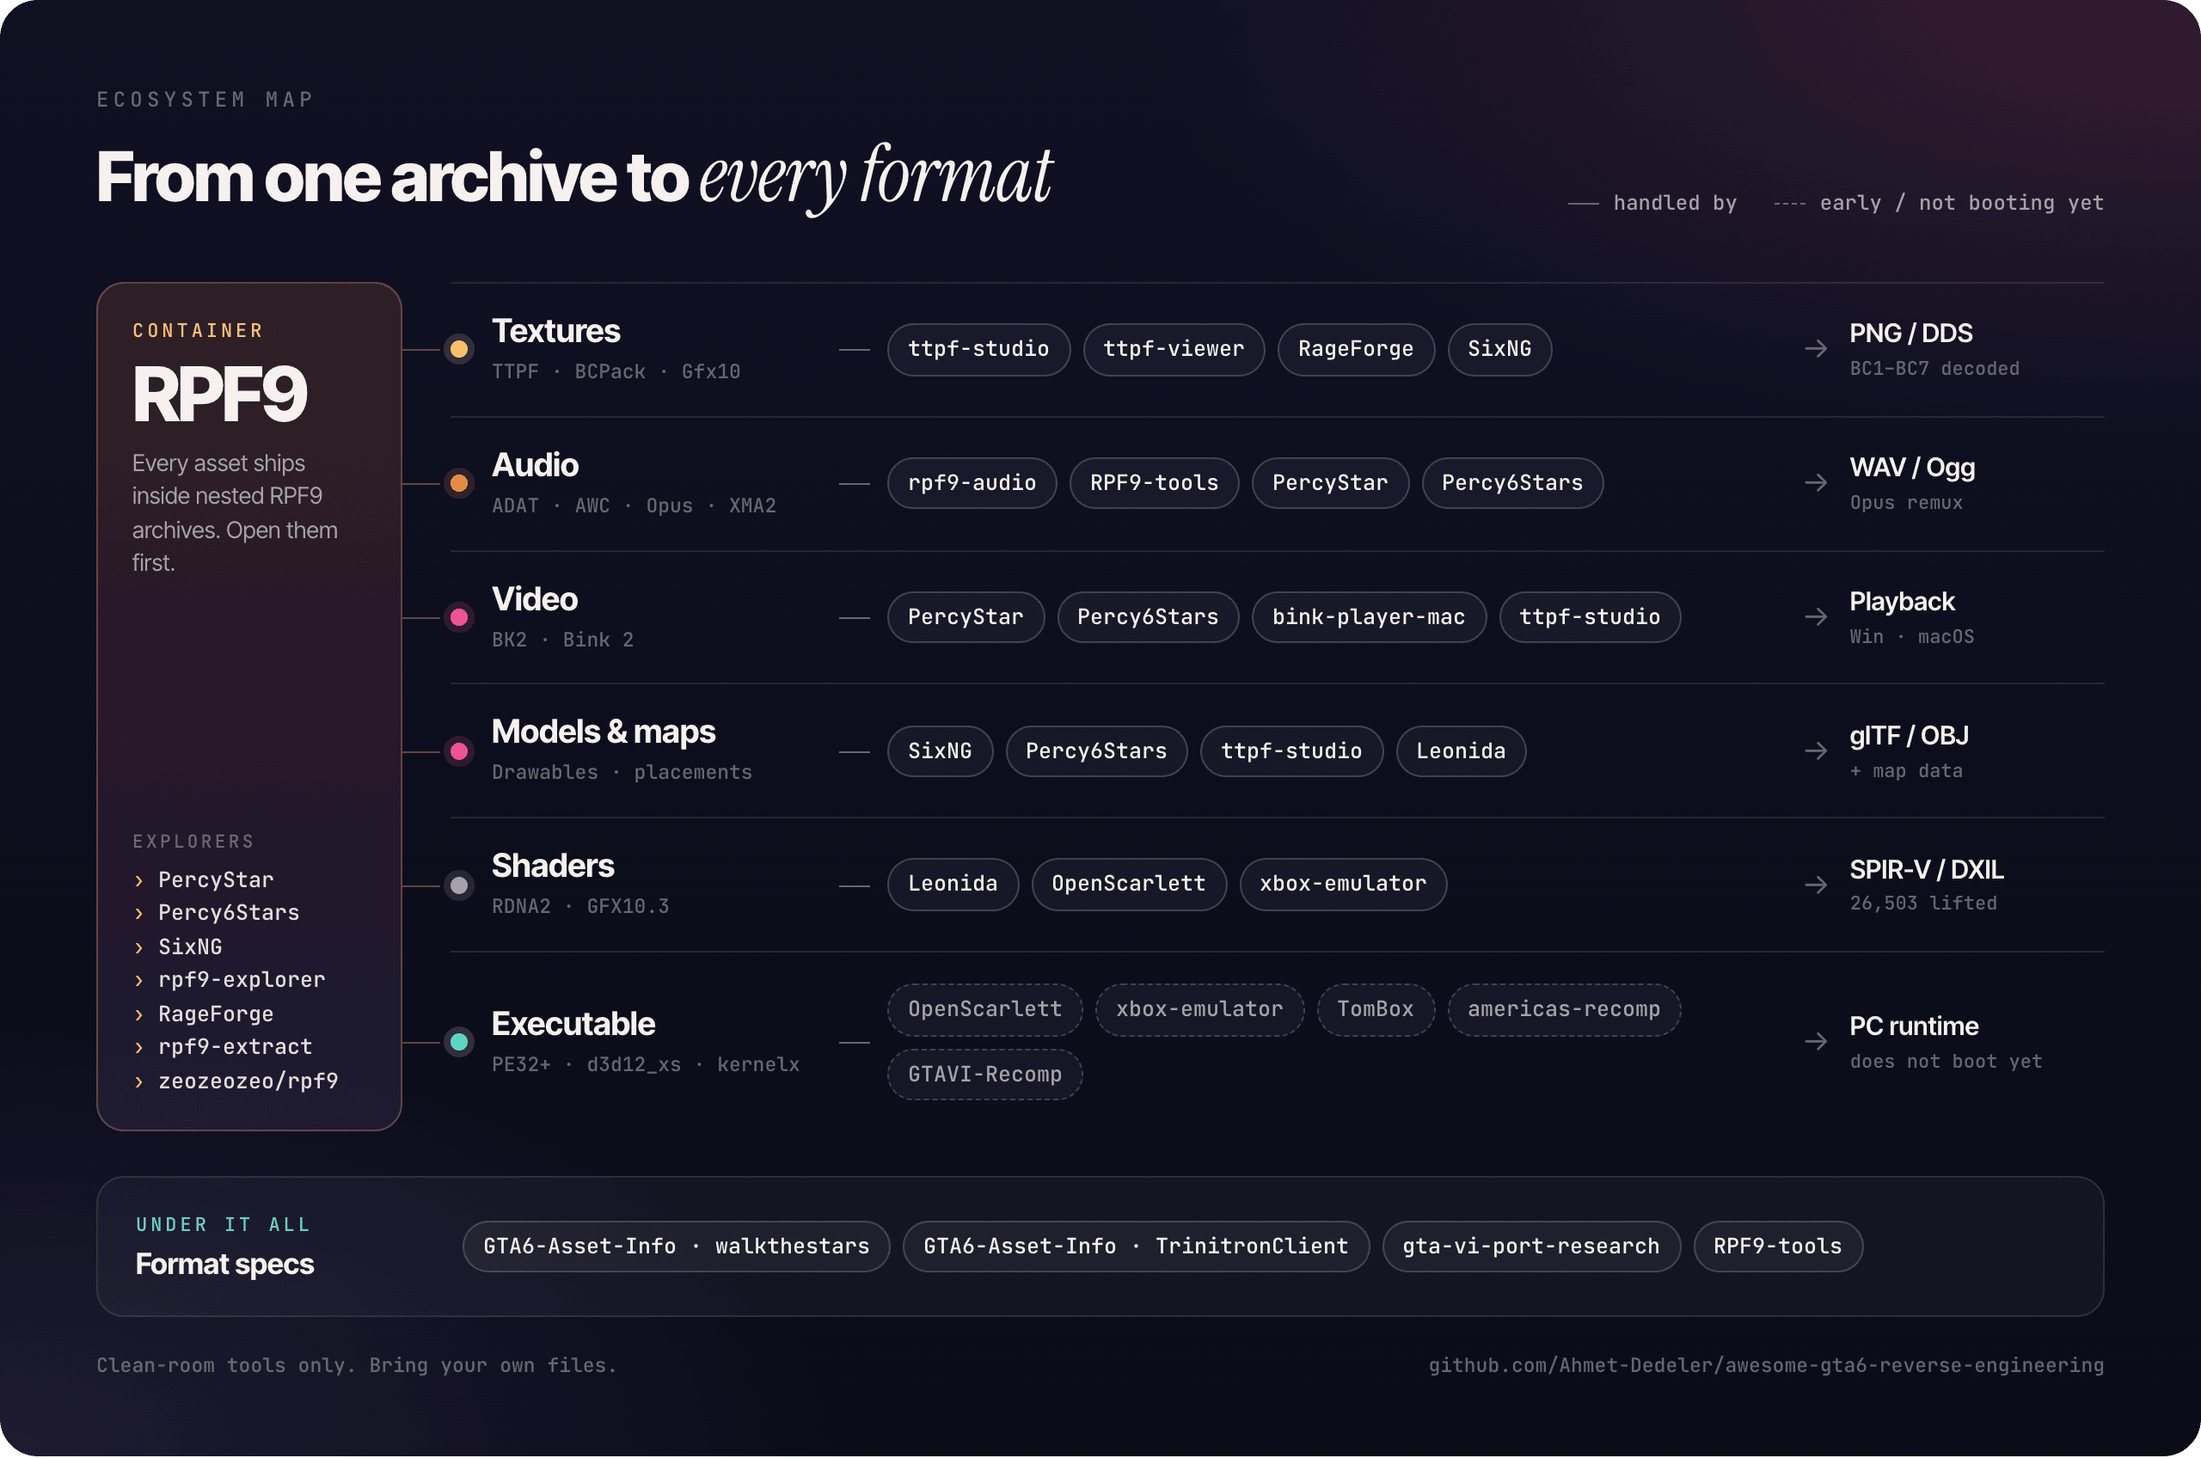
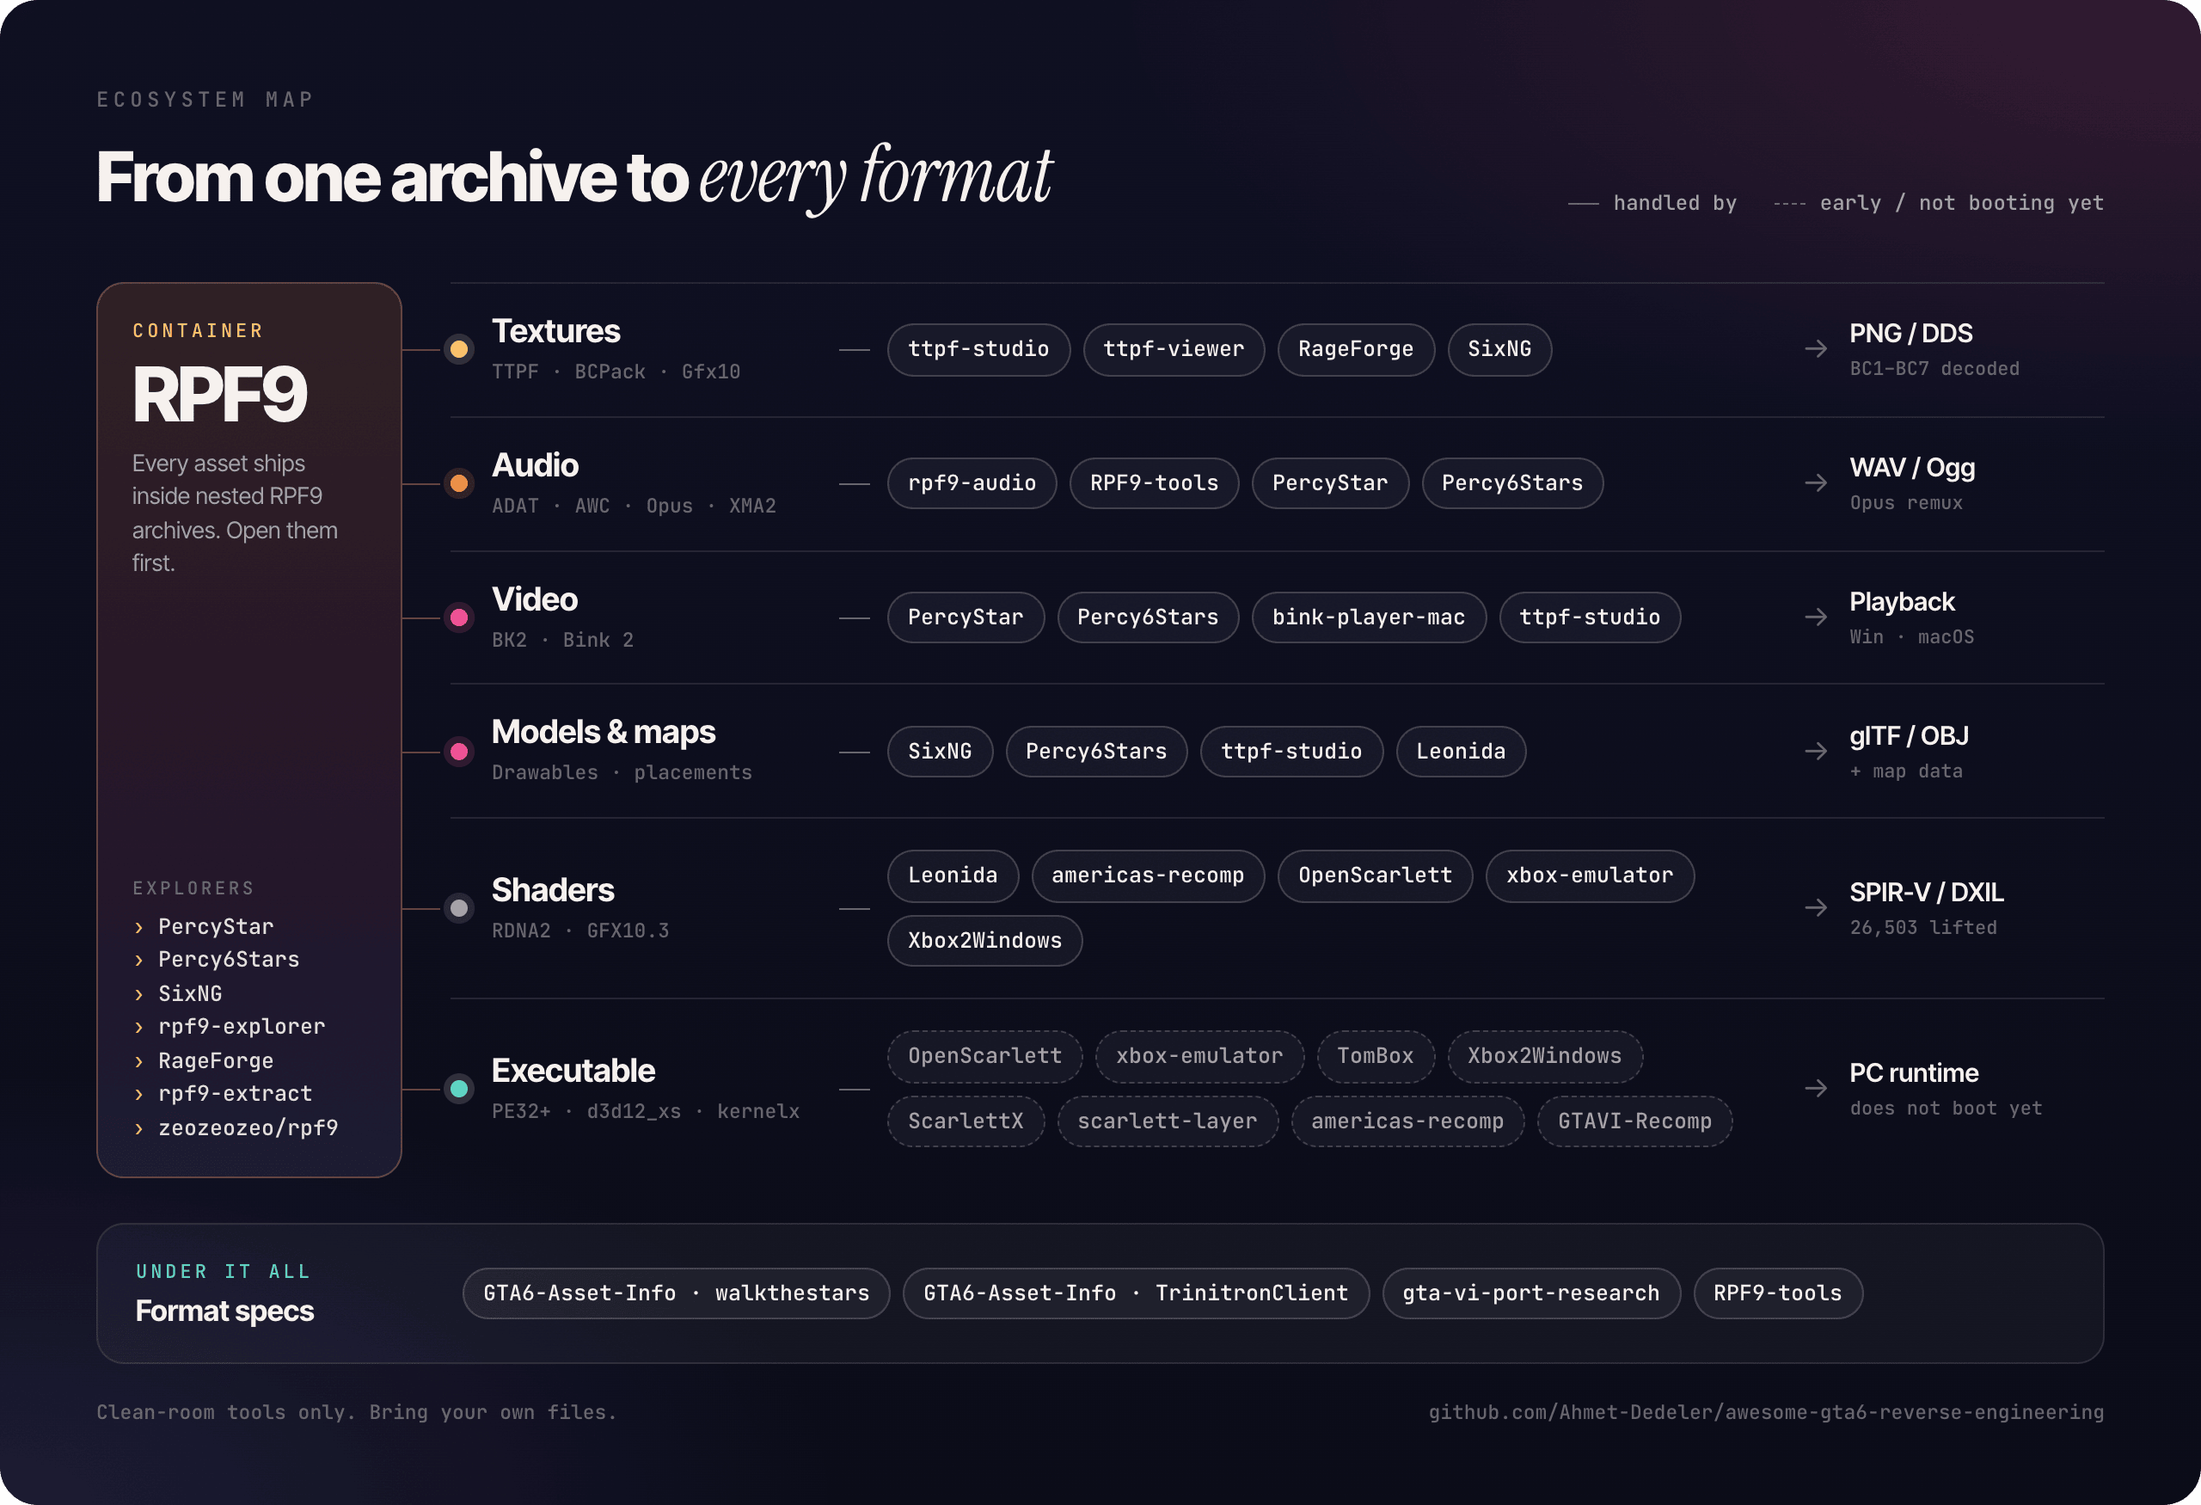
Add Xbox2Windows, ScarlettX, scarlett-layer, AnyPS5; refresh active entries
- New: R0Y00/Xbox2Windows, Freminet/ScarlettX, jadeowaowa/scarlett-layer,
  boykopovar/AnyPS5 (upstream of americas-recomp and GTAVI-Recomp)
- Refresh PercyStar, Percy6Stars, SixNG, RageForge, Leonida, xbox-emulator,
  americas-recomp, OpenScarlett, GTAVI-Recomp and TrinitronClient specs
- Caution callout: no PC exe exists; fake launchers and installers are malware bait
- Exclusions: Switch-emulator repo farms, Rockstar-branded launchers, text dumps,
  cipher-key hunting, README-only repos with releases
- Ecosystem map: new projects in the shader and executable lanes

diff --git a/assets/src/ecosystem-map.html b/assets/src/ecosystem-map.html
@@ -162,13 +162,13 @@
 
     <div class="lane">
       <div class="fmt"><span class="dot" style="color:var(--violet);background:var(--violet)"></span><div><div class="name">Shaders</div><div class="spec">RDNA2 · GFX10.3</div></div></div>
-      <div class="tools"><span class="pill">Leonida</span><span class="pill">OpenScarlett</span><span class="pill">xbox-emulator</span></div>
+      <div class="tools"><span class="pill">Leonida</span><span class="pill">americas-recomp</span><span class="pill">OpenScarlett</span><span class="pill">xbox-emulator</span><span class="pill">Xbox2Windows</span></div>
       <div class="out"><div class="o">SPIR-V / DXIL<small>26,503 lifted</small></div></div>
     </div>
 
     <div class="lane">
       <div class="fmt"><span class="dot" style="color:var(--teal);background:var(--teal)"></span><div><div class="name">Executable</div><div class="spec">PE32+ · d3d12_xs · kernelx</div></div></div>
-      <div class="tools"><span class="pill wip">OpenScarlett</span><span class="pill wip">xbox-emulator</span><span class="pill wip">TomBox</span><span class="pill wip">americas-recomp</span><span class="pill wip">GTAVI-Recomp</span></div>
+      <div class="tools"><span class="pill wip">OpenScarlett</span><span class="pill wip">xbox-emulator</span><span class="pill wip">TomBox</span><span class="pill wip">Xbox2Windows</span><span class="pill wip">ScarlettX</span><span class="pill wip">scarlett-layer</span><span class="pill wip">americas-recomp</span><span class="pill wip">GTAVI-Recomp</span></div>
       <div class="out"><div class="o">PC runtime<small>does not boot yet</small></div></div>
     </div>
   </div>

diff --git a/README.md b/README.md
@@ -31,6 +31,9 @@
 > [!IMPORTANT]
 > **Clean-room research and open-source code only.** This list indexes reverse engineering tools, clean-room reimplementations, and format documentation. It does **not** host, link to, or endorse game executables, copyrighted assets, encryption keys, DRM bypass tools, or leaked build downloads. Every tool listed expects you to supply files from your own copy on disk.
 
+> [!CAUTION]
+> **There is no playable GTA VI for PC.** The circulating Xbox build has no game executable (`game_scarlett_master.exe` is missing), and no open-source project boots the game. Any "GTA 6 PC download", "Switch/PS5 emulator", installer, or prebuilt launcher `.exe` is fake at best and malware at worst. One public "launcher" template even ships a self-signed `CN=Rockstar Games, Inc.` certificate with its private key, so anyone can sign a malicious build with it. Build tools from source you have read.
+
 ---
 
 ## Contents
@@ -63,12 +66,12 @@ Tools and libraries for inspecting, browsing, salvaging, and exporting `RPF9` co
 
 | Project | Stack | Platform | Focus |
 | :--- | :--- | :--- | :--- |
-| [rpatty-dev/PercyStar](https://github.com/rpatty-dev/PercyStar) | Rust | Windows | High-speed RPF9 archive explorer with D3D11 Bink2 video playback and ADAT Opus audio decoding. |
-| [Ahmet-Dedeler/Percy6Stars](https://github.com/Ahmet-Dedeler/Percy6Stars) | Rust | macOS, Windows | Cross-platform fork of PercyStar adding macOS support, in-app BK2 video, AWC audio previews, and 3D model browsing. |
-| [holdmysocks/SixNG](https://github.com/holdmysocks/SixNG) | Rust | Cross-platform (CLI + GUI) | Asset extractor for GTA VI Xbox Series `RPF9` archives. Exports models to `glTF`, textures, and map data (`GPL-3.0`). |
+| [rpatty-dev/PercyStar](https://github.com/rpatty-dev/PercyStar) | Rust | Windows | High-speed RPF9 archive explorer with D3D11 Bink2 video playback and ADAT Opus audio decoding. Now adds a World Map tab (heightmap, NavMesh, textured city blocks), a streaming 3D GPU world view, an animation / PSO browser, and an AWC player. |
+| [Ahmet-Dedeler/Percy6Stars](https://github.com/Ahmet-Dedeler/Percy6Stars) | Rust | macOS, Windows | Cross-platform fork of PercyStar adding macOS support, in-app BK2 video, AWC audio previews with real macOS playback, 3D model browsing, and a thumbnail gallery for `.ttpf` texture packs. Tracks upstream PercyStar features. |
+| [holdmysocks/SixNG](https://github.com/holdmysocks/SixNG) | Rust | Cross-platform (CLI + GUI) | Asset extractor for GTA VI Xbox Series `RPF9` archives. Exports models to `glTF`, textures, and map data, streams the whole map in a 3D view, resolves LOD links and shader/parameter names, and decodes PSO files and vehicle tables (`GPL-3.0`). |
 | [breadbbbb/rpf9-explorer](https://github.com/breadbbbb/rpf9-explorer) | C# | Windows | RPF9 archive browser with model, texture, audio, and video previews, asset export, and saved replacement projects (used as a submodule by `Leonida`). |
 | [offs/rpf9-extract](https://github.com/offs/rpf9-extract) | Rust | Cross-platform (CLI) | Clean-room CLI extractor and inspector (`-n` list, `-v` header fields and PSIN tables). |
-| [nullbrik/RageForge](https://github.com/nullbrik/RageForge) | C# | Windows (GUI + CLI) | RPF9 archive inspector (entry counts, types, verification hashes) paired with a live `.ttpf` texture decoder (Gfx10 detiling + BC1-BC7). |
+| [nullbrik/RageForge](https://github.com/nullbrik/RageForge) | C# | Windows (GUI + CLI) | RPF9 archive inspector (entry counts, types, verification hashes) with a live `.ttpf` texture decoder (Gfx10 detiling + BC1-BC7), texture dictionary detection, and a 3D model viewer with normal maps. |
 | [zeozeozeo/rpf9](https://github.com/zeozeozeo/rpf9) | Rust | Library crate | Minimal clean-room Rust library implementing the `RPF9` archive format with runnable `examples/`. |
 
 ---
@@ -91,12 +94,16 @@ Projects translating Xbox Series X|S (`Scarlett`) or PS5 system libraries, memor
 
 | Project | Stack | Target | Focus & Current Status |
 | :--- | :--- | :--- | :--- |
-| [ItsNotRexed/Leonida](https://github.com/ItsNotRexed/Leonida) | Python, C# | Xbox Series → Windows (Vulkan) | Static recompilation effort for build `1.0.2.1`. Translates all 26,503 RDNA2 shaders to SPIR-V passing `spirv-val`, exports OBJ models / DDS textures / AWC banks, and includes an untested PE loader skeleton. Xbox D3D12 → Vulkan and booting are not done yet. |
-| [omonkeyz/xbox-emulator](https://github.com/omonkeyz/xbox-emulator) | Rust | Xbox Series X\|S → Windows | Active continuation of `TomBox` (`TomBox + rage9`). Reimplements `d3d12_xs`, RDNA2 shader translation, unified memory aliasing, and console OS DLLs, with automated per-function progress maps. |
+| [ItsNotRexed/Leonida](https://github.com/ItsNotRexed/Leonida) | Python, C# | Xbox Series → Windows (Vulkan) | The scene's largest static recompilation effort, for build `1.0.2.1`. Translates all 26,503 RDNA2 shaders to SPIR-V passing `spirv-val` (wave64 shaders are exact only on 64-wide subgroups; parts of the translator are checked on one real GPU), exports OBJ models / DDS textures / AWC banks, and includes an untested PE loader skeleton. Xbox D3D12 → Vulkan and booting are not done yet. |
+| [R0Y00/Xbox2Windows](https://github.com/R0Y00/Xbox2Windows) | C++, Python (`MIT`) | Xbox Series → Windows | General static recompilation research for Scarlett x64 code. Translates source-built PE functions through C++ back to Windows executables, runs recompiled FidelityFX code, translates pixel shaders to D3D12, samples BC7 textures, and collects wave64 BVH results from community GPUs. Its public test suite builds its own fixtures, so no game files are needed. |
+| [omonkeyz/xbox-emulator](https://github.com/omonkeyz/xbox-emulator) | Rust | Xbox Series X\|S → Windows | Active continuation of `TomBox` (`TomBox + rage9`), `MIT OR Apache-2.0`. Reimplements `d3d12_xs`, RDNA2 shader translation, unified memory aliasing, and console OS DLLs, with automated per-function progress maps. Fortnite reaches its lobby; GTA VI is not run because the dump has no executable. |
 | [drycheetah84/TomBox](https://github.com/drycheetah84/TomBox) | Rust | Xbox Series X\|S → Windows | Upstream Xbox Series X\|S API-shimming emulator that `omonkeyz/xbox-emulator` builds upon. |
-| [realdody/americas-recomp (`xbox-series`)](https://github.com/realdody/americas-recomp/tree/xbox-series) | C++ | Xbox Series → PC | Recompilation runtime (`core/`, `tools/`, `docs/`). Make sure to check the `xbox-series` branch (`main` only holds `LICENSE`). |
-| [californiaAlmonds/OpenScarlett](https://github.com/californiaAlmonds/OpenScarlett) | C++20 (`MIT`) | Xbox Series X\|S → Windows | Clean-room Scarlett translation layer with PE32+ APC hook loader, `d3d12_xs` COM proxy, `xg_xs` swizzling, `kernelx` memory aliasing, RDNA2 → SPIR-V/DXIL lifter, GDeflate/BCPack/XMA2/Bink2 codecs, and GDK shims. |
-| [JamesCicada/GTAVI-Recomp](https://github.com/JamesCicada/GTAVI-Recomp) | C++ | PS5 → PC | Early AnyPS5-style library translation layer. Build system, core primitives, and diagnostic tests are in place; PS5 system libraries are not implemented yet. |
+| [realdody/americas-recomp (`xbox-series`)](https://github.com/realdody/americas-recomp/tree/xbox-series) | C++ | Xbox Series → PC | Tests whether AnyPS5's shader recompiler can run Xbox Series shaders. Valid SPIR-V so far: compute 96.7%, mesh 95.9%, vertex 61%, pixel 58% (strict), with GPU-vs-CPU bit-exact checks and `d3d12_xs` / `xmem` / `xgameruntime` stand-ins. Check the `xbox-series` branch (`main` only holds `LICENSE`). |
+| [californiaAlmonds/OpenScarlett](https://github.com/californiaAlmonds/OpenScarlett) | C++20 (`MIT`) | Xbox Series X\|S → Windows | Clean-room Scarlett translation layer with PE32+ APC hook loader, `d3d12_xs` COM proxy, `xg_xs` swizzling, `kernelx` memory aliasing, RDNA2 → SPIR-V/DXIL lifter, GDeflate/BCPack/XMA2/Bink2 codecs, and GDK shims. Its 13-test hardware suite passes on several AMD and NVIDIA GPUs. |
+| [Freminet/ScarlettX](https://github.com/Freminet/ScarlettX) | C++ | Xbox Series X\|S → Windows | Clean-room high-level emulator for GDK titles: PE64 loader, DirectStorage/XVD (unencrypted only), `d3d12_xs` → D3D12, GameInput, XGameSave, XAudio2. Runs the indie title *Concept Destruction* to gameplay. No license file yet. |
+| [jadeowaowa/scarlett-layer](https://github.com/jadeowaowa/scarlett-layer) | C++ (`Apache-2.0`) | Xbox Series X\|S → Windows | Loader + hook DLL that rewrites imports of unpacked, unencrypted GDK executables and routes them to `d3d12_xs`, DirectStorage, `xmem` / `xg_xs`, `xgameruntime`, and audio shims. 64 automated checks; no commercial title runs end to end yet. Rejects encrypted packages by design. |
+| [JamesCicada/GTAVI-Recomp](https://github.com/JamesCicada/GTAVI-Recomp) | C++ | PS5 → PC | GTA VI layer on top of AnyPS5: research, patches, and library work sent upstream. Refuses to work from game files, keys, or leaked material, so game-specific research is blocked until files can be studied lawfully; nothing has been tested with GTA VI. |
+| [boykopovar/AnyPS5](https://github.com/boykopovar/AnyPS5) | C++ (`GPL-2.0`) | PS5 → Windows / Linux | General relinker and PS5 system-library reimplementation (no emulation) with an RDNA2 → SPIR-V shader recompiler. Not GTA-specific, but it is the upstream that `americas-recomp` and `GTAVI-Recomp` build on. |
 
 ---
 
@@ -107,7 +114,7 @@ Byte-level specifications, field confidence tables, and reproducible inspection 
 | Project | Focus | Notes |
 | :--- | :--- | :--- |
 | [walkthestars/GTA6-Asset-Info](https://github.com/walkthestars/GTA6-Asset-Info) | 17-part asset format spec + SixNG guide | Covers `RPF9`, resources/pages, texture dictionaries, Xbox tiling, `ttpf`, `BCPack`, models, map meta, placements, interiors, vehicle paint, materials, collision, navmesh, lights, road graphs, PSO/RBF/BVH4/AWC. |
-| [TrinitronClient/GTA6-Asset-Info](https://github.com/TrinitronClient/GTA6-Asset-Info) | Active continuation with `structure/` byte specs | Adds raw byte-level `structure/00-06` references plus community PRs (TTPF array/cubemap layouts, codec type byte mapping, AWC/ADAT notes). |
+| [TrinitronClient/GTA6-Asset-Info](https://github.com/TrinitronClient/GTA6-Asset-Info) | Active continuation with `structure/` byte specs | Adds raw byte-level `structure/00-06` references plus community PRs (TTPF array/cubemap layouts, codec type byte mapping, AWC/ADAT notes, shader names, LOD parents, interior contents, PSO schema, vehicle tables). |
 | [oguzhanozfe/gta-vi-port-research](https://github.com/oguzhanozfe/gta-vi-port-research) | Xbox-to-PC research handbook | Markdown format documentation and reproducible Python file-inspection scripts in `tools/`. |
 | [frenzy42069/RPF9-tools](https://github.com/frenzy42069/RPF9-tools) | Byte-level `format_desc.md` + C/Python scripts | Detailed `RPF9` container geometry, PSIN checks, Bink2 range carving, and `ADAT` Opus extraction (`rpf9_extract_audio.c`). Ignore the satirical disclaimer in the README. |
 
@@ -143,7 +150,8 @@ Quick reference for terms that show up across these repositories:
 To keep this directory useful and safe, projects are audited before being added:
 
 - **Included:** Real working code, libraries, format specs, or active runtime/translation research backed by actual commits.
-- **Excluded:** Empty placeholder repos (0 commits / empty tree), raw extracted copyrighted game strings or assets, decryption keys, cheat-code / wallpaper hubs, `make.fun` bounty/meme repos, and clickbait "100% playable GTA 6 PC port" or malware-bait repositories.
+- **Excluded:** Empty placeholder repos (0 commits / empty tree), raw extracted copyrighted game strings or assets (including text dumps of the build), decryption keys or projects hunting for archive cipher keys, cheat-code / wallpaper hubs, `make.fun` bounty/meme repos, and clickbait "100% playable GTA 6 PC port" or malware-bait repositories.
+- **Also excluded:** the dozens of identical `GTA-6-Switch-Version--PC-Emulator-2026` / "PC installer hub" repos, fake or Rockstar-branded launchers (including ones signed with a fake `Rockstar Games, Inc.` certificate), README-only "recomp" repos with a release attached, and repos whose only download is an unverified prebuilt `.exe`.
 
 ---
 
